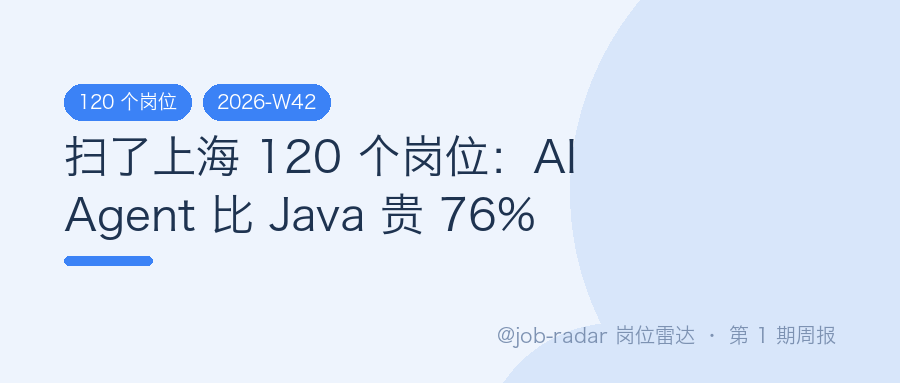
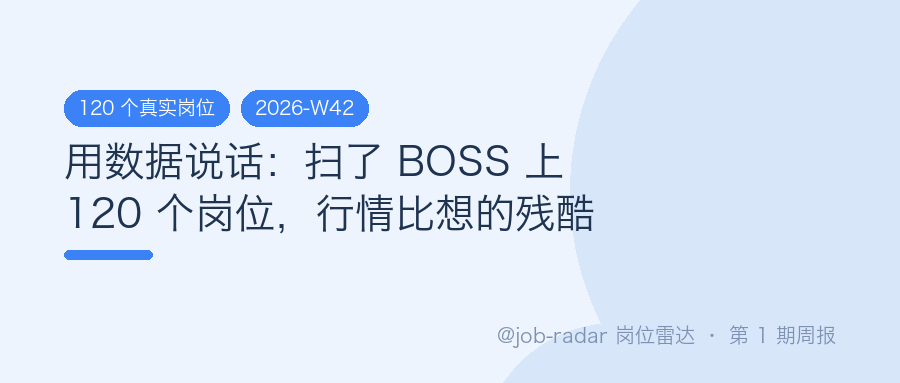
post: 标题定稿——用数据说话：扫了 BOSS 上 120 个岗位，行情比想的残酷（封面同步重生成）

Changed region(s): [[0.0622, 0.201, 0.6844, 0.718]]

diff --git a/content/posts/shanghai-120-jobs.md b/content/posts/shanghai-120-jobs.md
@@ -1,9 +1,9 @@
 ---
-title: 扫了上海 120 个岗位：AI Agent 比 Java 贵 76%
+title: 用数据说话：扫了 BOSS 上 120 个岗位，行情比想的残酷
 date: 2026-10-13
 draft: true
 tags: [程序员求职, AI Agent, 数据分析, Build in Public]
-x_hooks: ["都说后端凉了，我扫了 120 个上海岗位，发现凉的只是中级", "失业前必看：上海 AI Agent 岗中位 30K，底座还是 Java 那套"]
+x_hooks: ["用数据说话：BOSS 120 个真实岗位扫出的 3 个行业动向", "AI Agent 岗开到 30K，底座还是你写烂的 Java", "扫了上海 120 个岗位：AI Agent 比 Java 贵 76%"]
 summary: 身边失业的程序员越来越多，与其一起焦虑，我干脆写了个采集器扫了上海 120 个在招岗位：AI Agent 岗中位 30K，比 Java 岗（17K）贵 76%，但 5-10 年经验拿走了近一半名额。这篇讲数据怎么来的、三个反直觉的发现，和给同行的 3 条实在建议。
 ---
 
